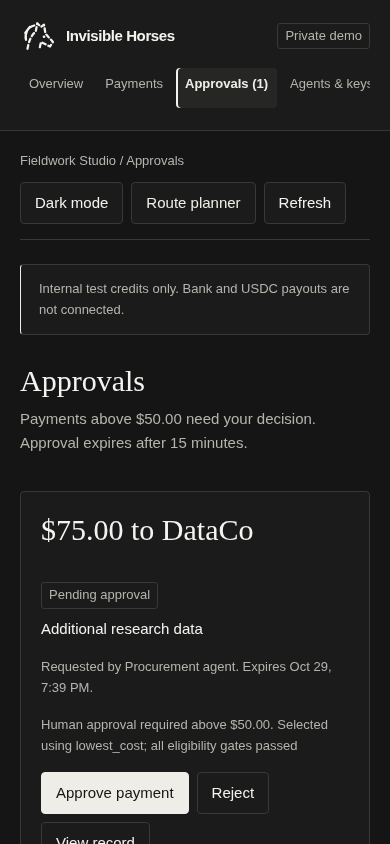
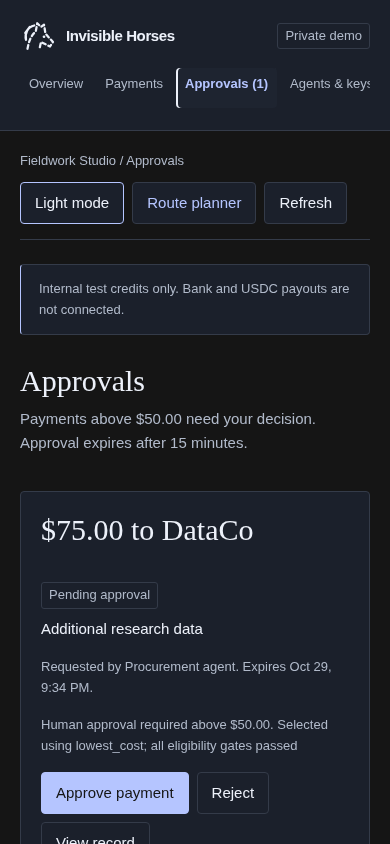
Refresh final app captures and bundle shared palette for local development

diff --git a/packages/payroute/playground/index.html b/packages/payroute/playground/index.html
@@ -15,7 +15,6 @@
           localStorage.getItem("payroute-theme") || "";
       } catch {}
     </script>
-    <link rel="stylesheet" href="/brand/palette.css" />
   </head>
   <body>
     <div class="shell">

diff --git a/console/index.html b/console/index.html
@@ -16,7 +16,6 @@
       } catch {}
     </script>
     <link rel="stylesheet" href="/brand/motion.css" />
-    <link rel="stylesheet" href="/brand/palette.css" />
   </head>
   <body>
     <div id="root">

diff --git a/packages/payroute/playground/style.css b/packages/payroute/playground/style.css
@@ -1,3 +1,5 @@
+@import "../../../public/brand/palette.css";
+
 :root {
   color-scheme: light;
   --bg: var(--ih-bg);

diff --git a/console/style.css b/console/style.css
@@ -1,3 +1,5 @@
+@import "../public/brand/palette.css";
+
 :root {
   color-scheme: light;
   --bg: var(--ih-bg);
